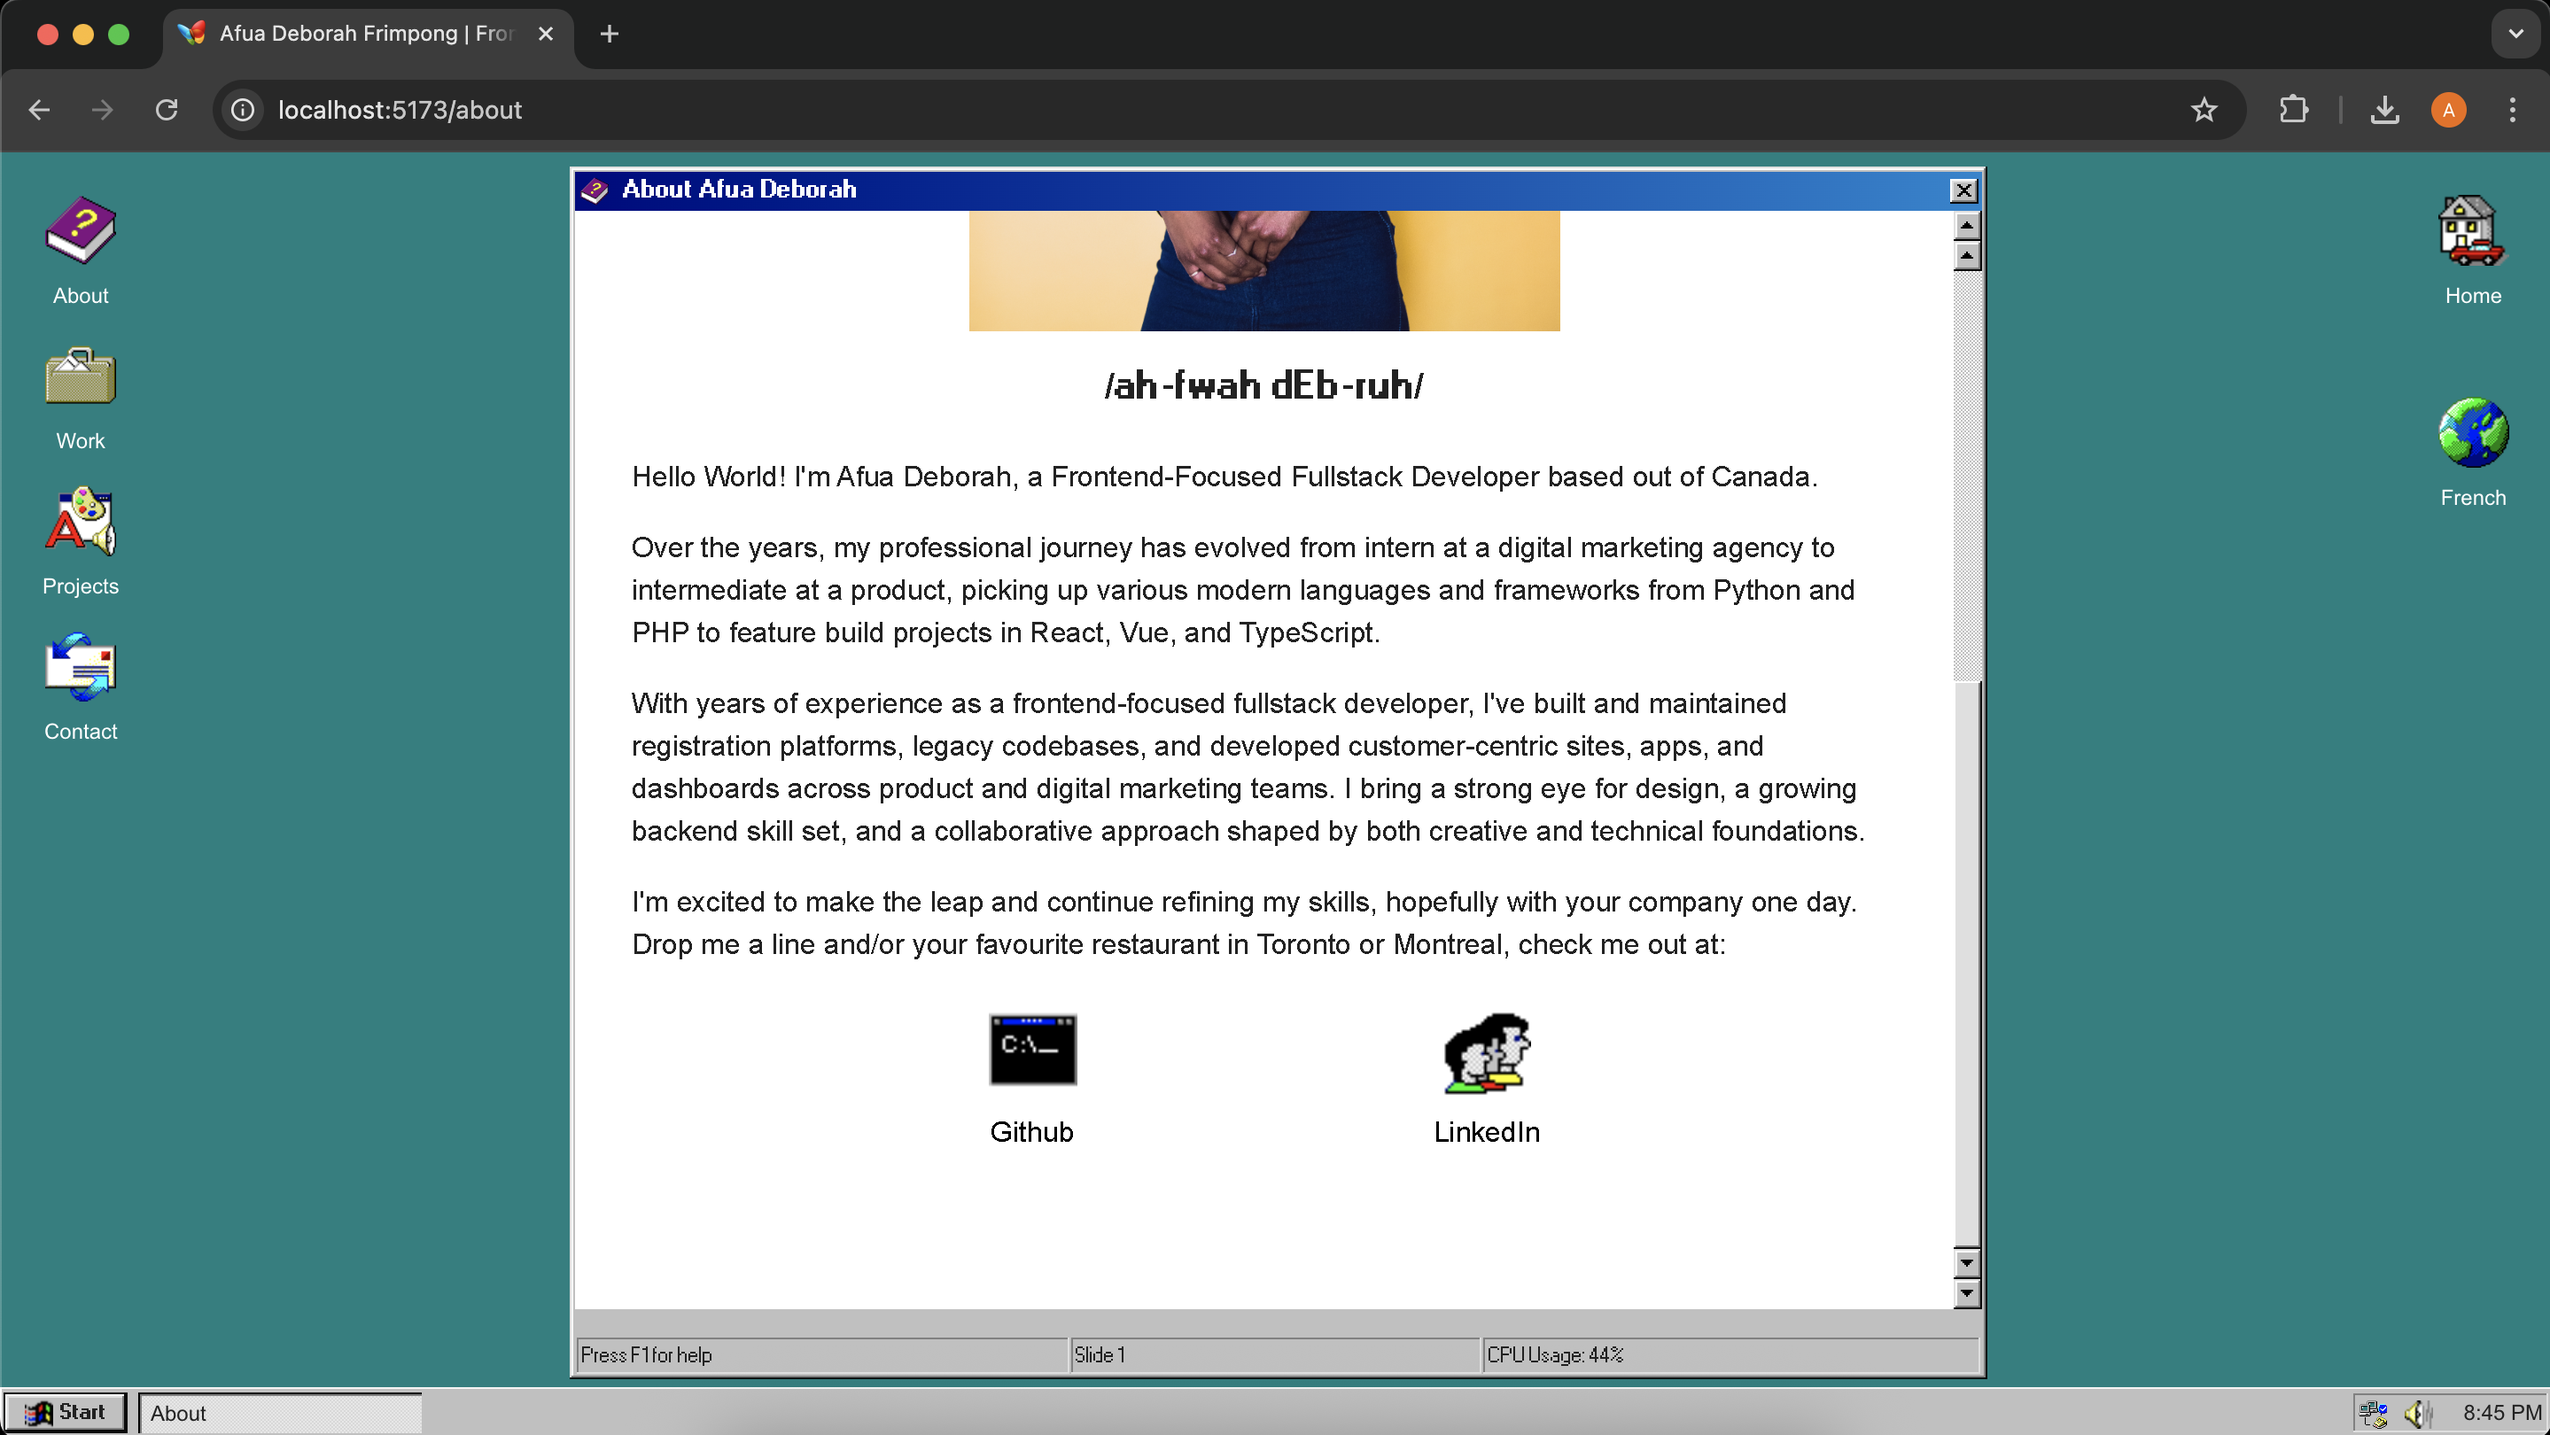
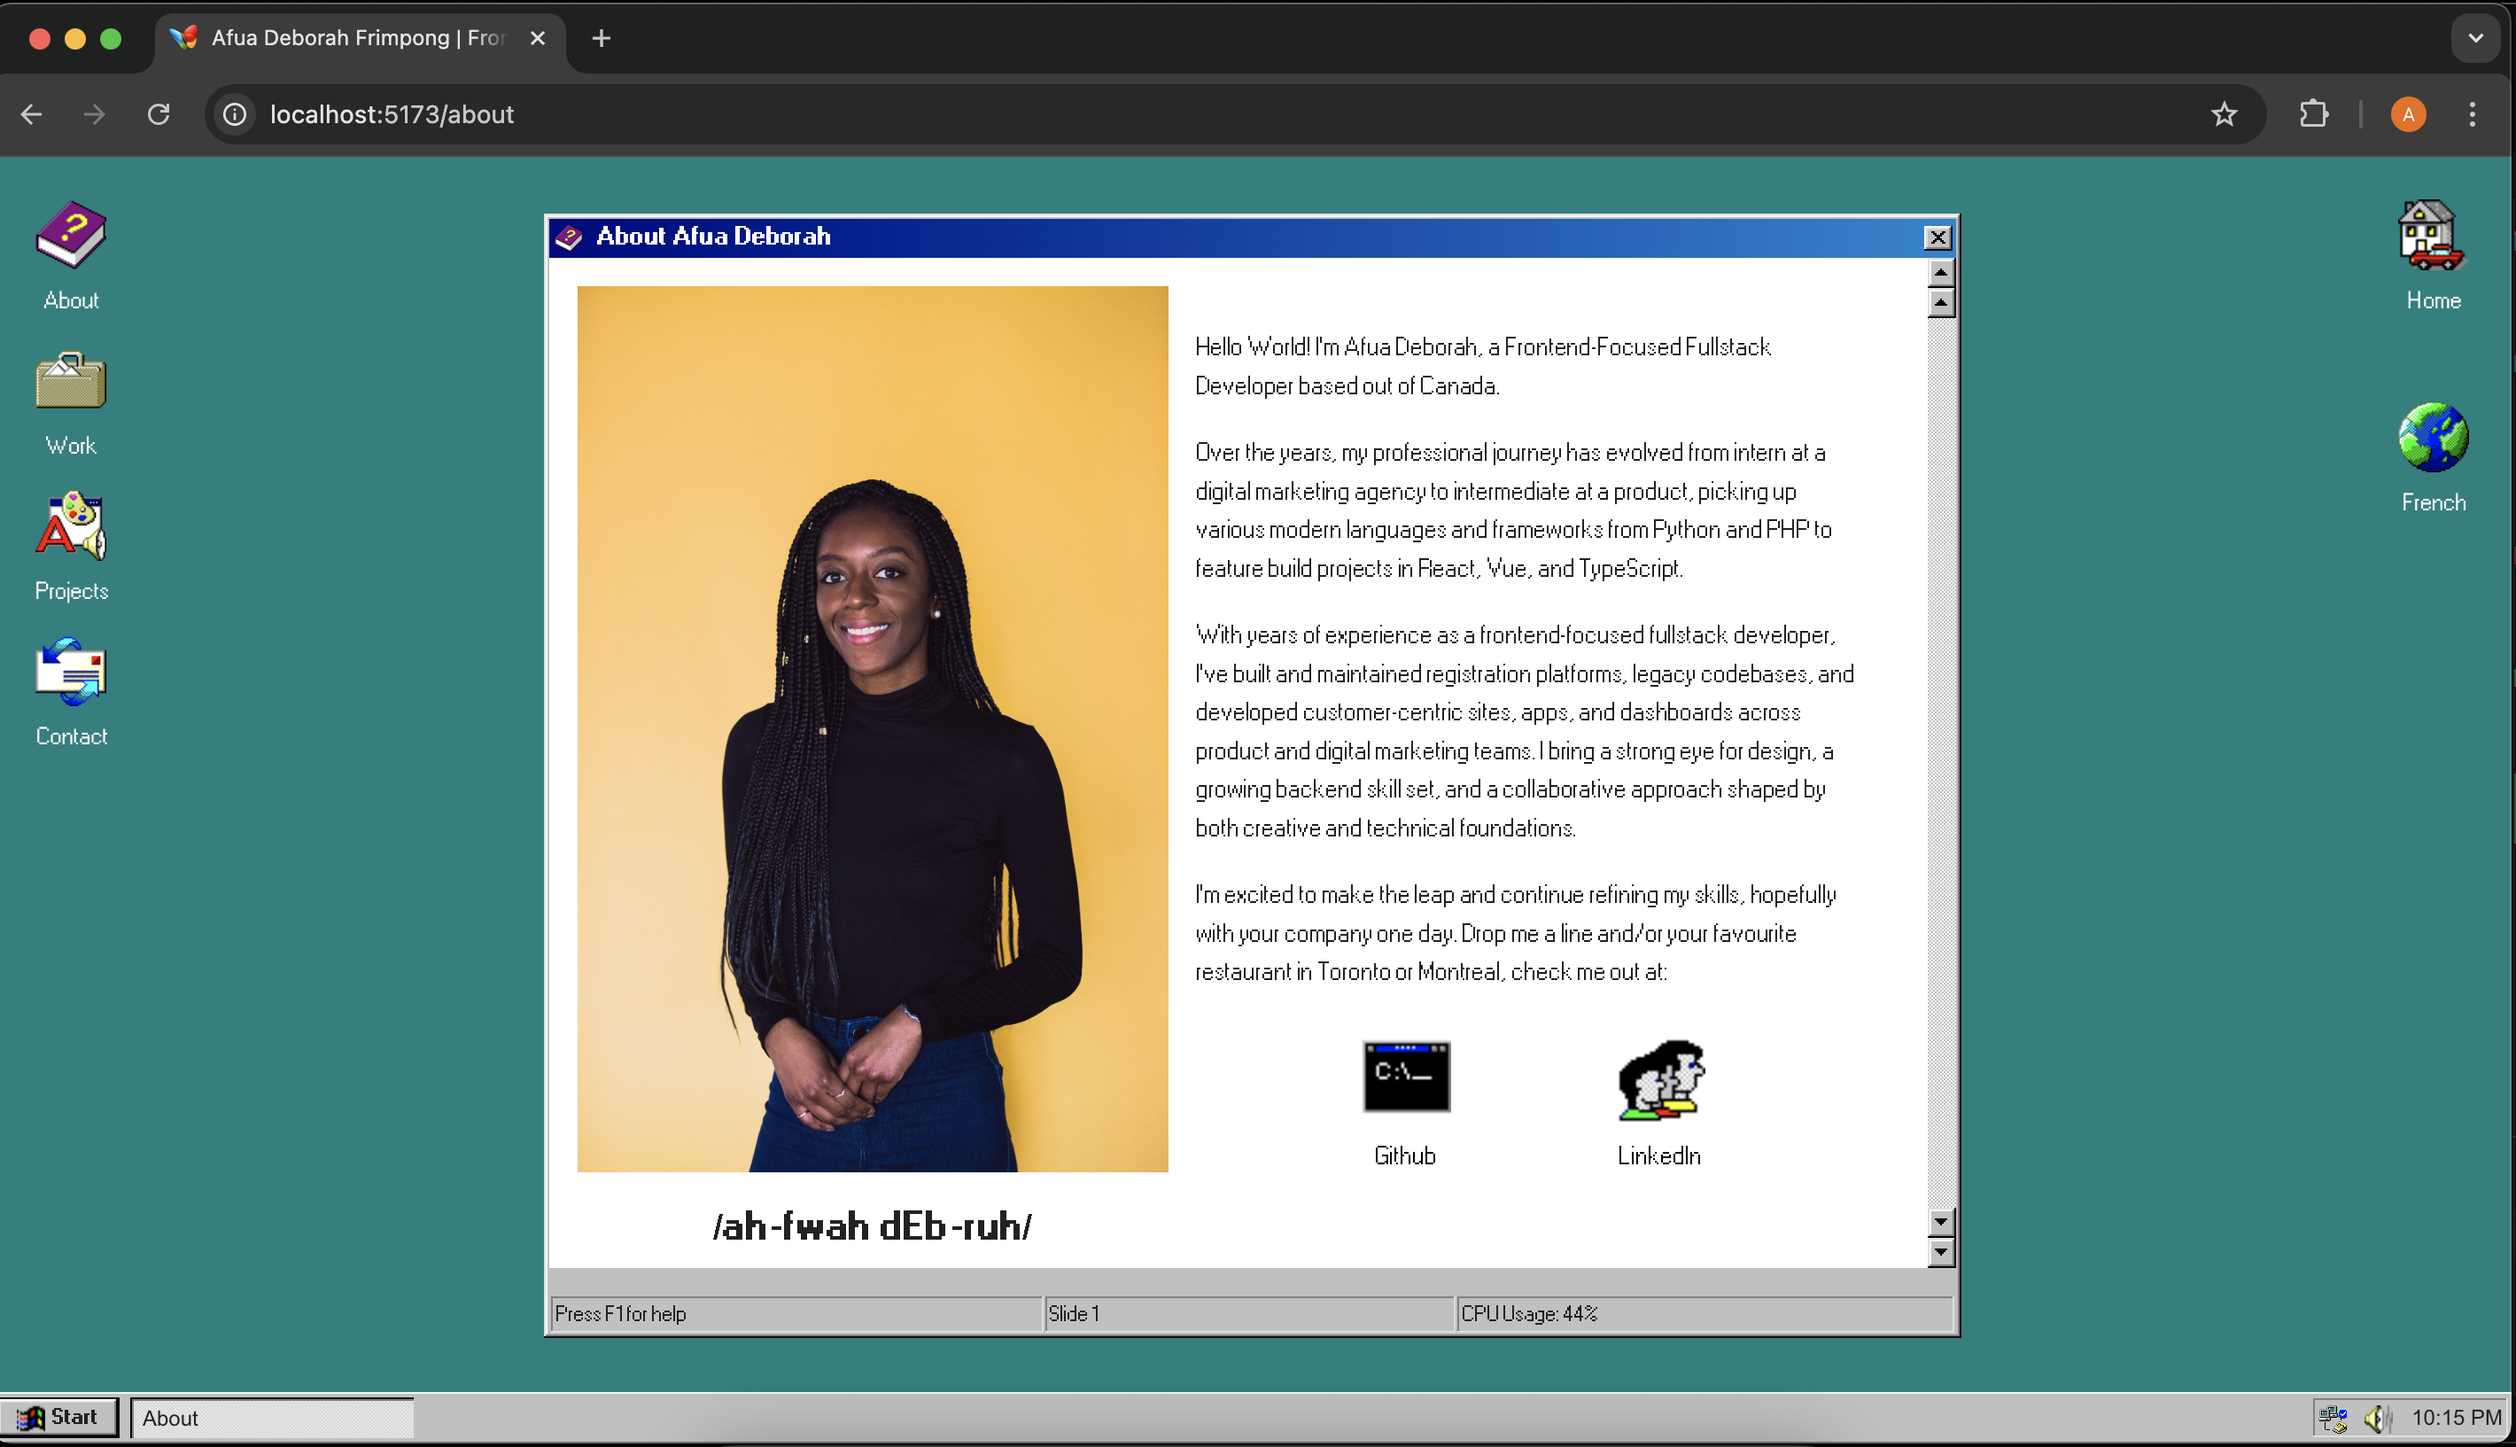
chore: moving fonts into public folder chore: cleaning up scss files chore: updating screenshots in README chore: small tweaks in Home, About pages

diff --git a/client/src/styles/scss/_about.scss b/client/src/styles/scss/_about.scss
@@ -1,34 +1,34 @@
 .about__window-container {
     overflow-y: scroll;
-    max-height: 620px;
+    max-height: 570px;
 
     h2 {
         font-size: 2rem;
     }
 
     p:not(.about__pronounciation) {
-        font-size: 1rem;
+        font-size: 0.8rem;
     }
 
     .about__pronounciation {
         font-weight: 700;
     }
-}
 
-.about__image {
-    max-height: 500px;
-}
-
-.about__copy-container,
-.about__window-container h2 {
-    font-family: Arial, Helvetica, sans-serif;
-}
-
-.about__copy-container {
-    font-size: 1.2rem;
-}
-
-.about__social {
-    height: 50px;
-    width: 50px;
+    .about__image {
+        max-height: 500px;
+    }
+    
+    .about__copy-container {
+        font-size: 1.2rem;
+        line-height: 1.7;
+    }
+    
+    .about__social {
+        height: 50px;
+        width: 50px;
+    
+        .about__link {
+            font-size: 1rem;
+        }
+    }
 }

diff --git a/client/src/components/pages/About.tsx b/client/src/components/pages/About.tsx
@@ -17,7 +17,7 @@ const About = () => {
 				</div>
 			</div>
 
-			<div className='about__window-container d-flex flex-column bg-white mb-3 p-3'>
+			<div className='about__window-container d-flex flex-column flex-md-row bg-white mb-3 p-3'>
 				<div className='d-flex flex-column justify-content-around align-items-center'>
 					<div>
 						<img
@@ -68,7 +68,7 @@ const About = () => {
 							to='https://github.com/afuadeborah'
 							target='_blank'
 							rel='noopener noreferrer'
-							className='about__social-link text-center text-black mb-5'
+							className='about__social-link text-center text-black'
 							aria-hidden='true'
 							title="Go to Afua's Github"
 						>

diff --git a/client/src/styles/scss/_layout.scss b/client/src/styles/scss/_layout.scss
@@ -15,6 +15,7 @@ body {
     min-height: 100%;
 }
 
+// Window setup
 .window {
     max-width: 800px;
 }
@@ -22,6 +23,10 @@ body {
 button,
 .window__icon {
     cursor: pointer;
+}
+
+.title-bar img {
+    margin-right: 8px;
 }
 
 .status-bar {
@@ -38,11 +43,17 @@ button,
     height: 40px;
 }
 
+.window__icon-text {
+    font-family: "MS Sans Serif", sans-serif;
+}
+
+// Menu setup
 .right-icon-container {
     margin: 24px 24px 0 0;
     padding-bottom: 24px;
 }
 
+// Footer
 .footer {
     position: fixed;
     bottom: 0;
@@ -91,9 +102,5 @@ button,
 .title-bar img {
     width: 16px;
     height: 16px;
-}
-
-.title-bar img {
-    margin-right: 8px;
 }
 

diff --git a/client/src/styles/scss/_fonts.scss b/client/src/styles/scss/_fonts.scss
@@ -6,14 +6,14 @@
 
 @font-face {
     font-family: 'MS Sans Serif';
-    src: url('../fonts/ms-sans-serif.ttf');
+    src: url('../../../public/fonts/ms-sans-serif.ttf') format("truetype");;
     font-weight: normal;
     @include font-base;
 }
 
 @font-face {
     font-family: 'MS Sans Serif';
-    src: url('../fonts/ms-sans-serif-bold.ttf');
+    src: url('../../../public/fonts/ms-sans-serif-bold.ttf');
     font-weight: bold;
     @include font-base;
 }
@@ -48,7 +48,6 @@ h1.title-bar-text,
 .post__container h2,
 h2.title-bar-text {
     font-size: 0.8rem;
-    margin: 0;
 }
 
 h2 {

diff --git a/client/src/styles/scss/_welcome.scss b/client/src/styles/scss/_welcome.scss
@@ -1,14 +1,14 @@
-.welcome__text-container {
-    margin-left: 16px;
+.welcome__window {
+    max-width: 600px;
+    min-height: 500px;
+    
+    .welcome__text-container {
+        margin-left: 16px;
+    }
 }
 
 .welcome__text {
     font-size: 1rem;
-}
-
-.welcome__window {
-    max-width: 600px;
-    min-height: 500px;
 }
 
 .welcome__text,

diff --git a/client/src/components/SideMenu.tsx b/client/src/components/SideMenu.tsx
@@ -52,7 +52,9 @@ const SideMenu = () => {
 							className='window__icon'
 							alt={`${item.name} icon`}
 						/>
-						<p className='text-white mt-2'>{item.name}</p>
+						<p className='window__icon-text text-white mt-2'>
+							{item.name}
+						</p>
 					</Link>
 				);
 			})}{" "}

diff --git a/client/src/components/Welcome.tsx b/client/src/components/Welcome.tsx
@@ -37,8 +37,7 @@ const Welcome = () => {
 
 			<div className='mt-5 mt-md-3'>
 				<p className='welcome__text'>
-					Click the <span className='text-white'>ABOUT</span> icon to
-					begin.
+					Click <span className='text-white'>ABOUT</span> to begin.
 				</p>
 			</div>
 		</div>

diff --git a/client/src/components/Menu.tsx b/client/src/components/Menu.tsx
@@ -39,7 +39,9 @@ const Menu = () => {
 						className='window__icon'
 						alt={`${item.name} icon`}
 					/>
-					<p className='text-white mt-2'>{item.name}</p>
+					<p className='window__icon-text text-white mt-2'>
+						{item.name}
+					</p>
 				</Link>
 			))}
 		</div>

diff --git a/README.md b/README.md
@@ -22,6 +22,8 @@ Thanks for stopping by, you'll be first to know once I have this site up and run
 
 ![About](./client/src/assets/images/dev-about-screenshot.png)
 
+![Work](./client/src/assets/images/dev-work-screenshot.png)
+
 ## Stack
 
 **Frontend**
